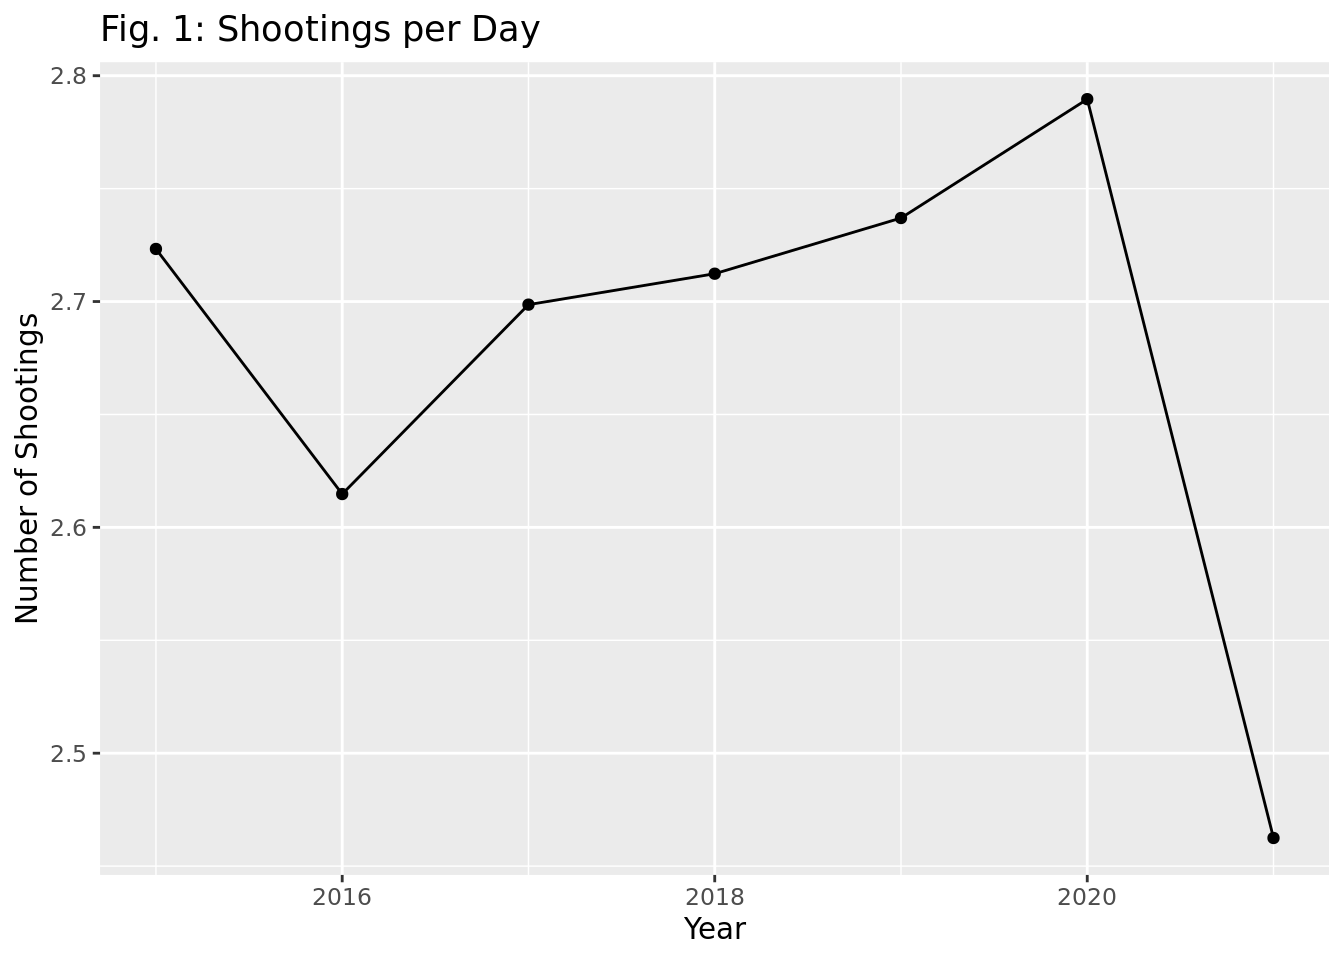
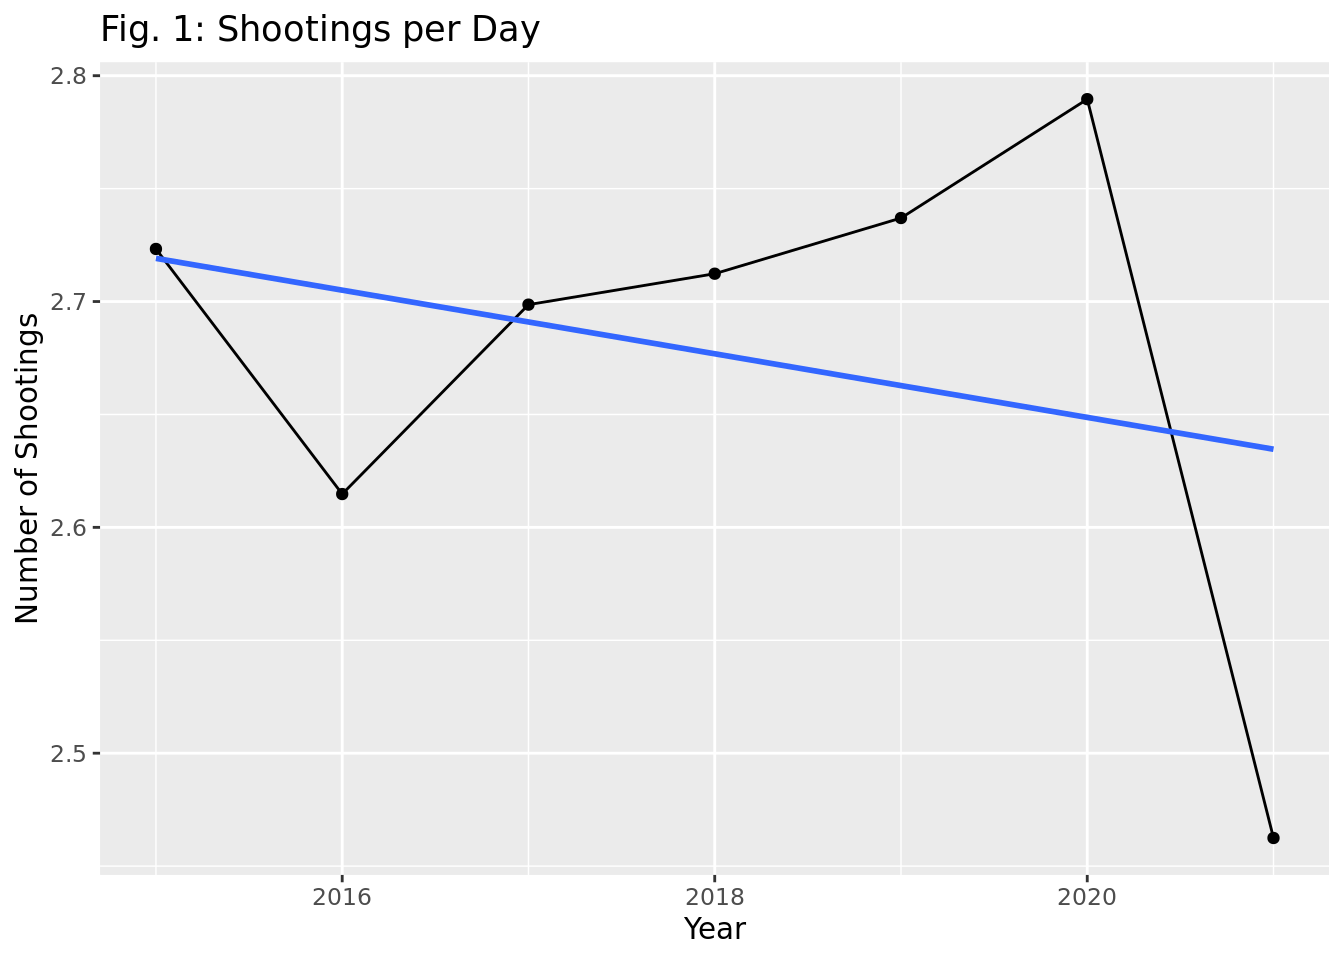
Added trendline to Fig.1

diff --git a/docs/report.html b/docs/report.html
@@ -298,80 +298,84 @@ $ `Shooting.Body-Camera`   &lt;lgl&gt; TRUE, TRUE, TRUE, TRUE, TRUE, TRUE, TRUE,
 <span id="cb12-12"><a href="#cb12-12" aria-hidden="true" tabindex="-1"></a>  <span class="fu">labs</span>(</span>
 <span id="cb12-13"><a href="#cb12-13" aria-hidden="true" tabindex="-1"></a>    <span class="at">title =</span> <span class="st">"Fig. 1: Shootings per Day"</span>,</span>
 <span id="cb12-14"><a href="#cb12-14" aria-hidden="true" tabindex="-1"></a>    <span class="at">x =</span> <span class="st">"Year"</span>, </span>
-<span id="cb12-15"><a href="#cb12-15" aria-hidden="true" tabindex="-1"></a>    <span class="at">y =</span> <span class="st">"Number of Shootings"</span>)</span></code><button title="Copy to Clipboard" class="code-copy-button"><i class="bi"></i></button></pre></div>
+<span id="cb12-15"><a href="#cb12-15" aria-hidden="true" tabindex="-1"></a>    <span class="at">y =</span> <span class="st">"Number of Shootings"</span>) <span class="sc">+</span></span>
+<span id="cb12-16"><a href="#cb12-16" aria-hidden="true" tabindex="-1"></a>  <span class="fu">geom_smooth</span>(<span class="at">method =</span> <span class="st">"lm"</span>, <span class="at">se =</span> F)</span></code><button title="Copy to Clipboard" class="code-copy-button"><i class="bi"></i></button></pre></div>
+<div class="cell-output cell-output-stderr">
+<pre><code>`geom_smooth()` using formula = 'y ~ x'</code></pre>
+</div>
 <div class="cell-output-display">
 <p><img src="report_files/figure-html/yearly-analysis-1.png" class="img-fluid" width="672"></p>
 </div>
 </div>
 <p>As seen by the graph below, ~10% of male victims and 13% of female victims were unarmed.</p>
 <div class="cell">
-<div class="sourceCode cell-code" id="cb13"><pre class="sourceCode r code-with-copy"><code class="sourceCode r"><span id="cb13-1"><a href="#cb13-1" aria-hidden="true" tabindex="-1"></a>police_shootings <span class="sc">|&gt;</span></span>
-<span id="cb13-2"><a href="#cb13-2" aria-hidden="true" tabindex="-1"></a>  <span class="fu">filter</span>(Factors.Armed <span class="sc">!=</span> <span class="st">"unknown"</span>) <span class="sc">|&gt;</span></span>
-<span id="cb13-3"><a href="#cb13-3" aria-hidden="true" tabindex="-1"></a>  <span class="fu">mutate</span>(<span class="at">Factors.Armed.Test =</span> <span class="fu">if_else</span>(Factors.Armed <span class="sc">==</span> <span class="st">"unarmed"</span> <span class="sc">|</span> Factors.Armed <span class="sc">==</span> <span class="st">"toy weapon"</span>, <span class="st">"unarmed"</span>, <span class="st">"armed with weapon"</span>)) <span class="sc">|&gt;</span></span>
-<span id="cb13-4"><a href="#cb13-4" aria-hidden="true" tabindex="-1"></a>  <span class="fu">ggplot</span>(<span class="fu">aes</span>(<span class="at">x =</span> Person.Gender, <span class="at">fill =</span> Factors.Armed.Test)) <span class="sc">+</span></span>
-<span id="cb13-5"><a href="#cb13-5" aria-hidden="true" tabindex="-1"></a>  <span class="fu">geom_bar</span>(<span class="at">position =</span> <span class="st">"fill"</span>) <span class="sc">+</span></span>
-<span id="cb13-6"><a href="#cb13-6" aria-hidden="true" tabindex="-1"></a>  <span class="fu">labs</span>(</span>
-<span id="cb13-7"><a href="#cb13-7" aria-hidden="true" tabindex="-1"></a>    <span class="at">title =</span> <span class="st">"Fig. 2: Arms Status of Victims by Gender"</span>,</span>
-<span id="cb13-8"><a href="#cb13-8" aria-hidden="true" tabindex="-1"></a>    <span class="at">y =</span> <span class="st">"% of Victims"</span>,</span>
-<span id="cb13-9"><a href="#cb13-9" aria-hidden="true" tabindex="-1"></a>    <span class="at">x =</span> <span class="st">"Sex"</span>,</span>
-<span id="cb13-10"><a href="#cb13-10" aria-hidden="true" tabindex="-1"></a>    <span class="at">fill =</span> <span class="st">"Arms Status"</span>)</span></code><button title="Copy to Clipboard" class="code-copy-button"><i class="bi"></i></button></pre></div>
+<div class="sourceCode cell-code" id="cb14"><pre class="sourceCode r code-with-copy"><code class="sourceCode r"><span id="cb14-1"><a href="#cb14-1" aria-hidden="true" tabindex="-1"></a>police_shootings <span class="sc">|&gt;</span></span>
+<span id="cb14-2"><a href="#cb14-2" aria-hidden="true" tabindex="-1"></a>  <span class="fu">filter</span>(Factors.Armed <span class="sc">!=</span> <span class="st">"unknown"</span>) <span class="sc">|&gt;</span></span>
+<span id="cb14-3"><a href="#cb14-3" aria-hidden="true" tabindex="-1"></a>  <span class="fu">mutate</span>(<span class="at">Factors.Armed.Test =</span> <span class="fu">if_else</span>(Factors.Armed <span class="sc">==</span> <span class="st">"unarmed"</span> <span class="sc">|</span> Factors.Armed <span class="sc">==</span> <span class="st">"toy weapon"</span>, <span class="st">"unarmed"</span>, <span class="st">"armed with weapon"</span>)) <span class="sc">|&gt;</span></span>
+<span id="cb14-4"><a href="#cb14-4" aria-hidden="true" tabindex="-1"></a>  <span class="fu">ggplot</span>(<span class="fu">aes</span>(<span class="at">x =</span> Person.Gender, <span class="at">fill =</span> Factors.Armed.Test)) <span class="sc">+</span></span>
+<span id="cb14-5"><a href="#cb14-5" aria-hidden="true" tabindex="-1"></a>  <span class="fu">geom_bar</span>(<span class="at">position =</span> <span class="st">"fill"</span>) <span class="sc">+</span></span>
+<span id="cb14-6"><a href="#cb14-6" aria-hidden="true" tabindex="-1"></a>  <span class="fu">labs</span>(</span>
+<span id="cb14-7"><a href="#cb14-7" aria-hidden="true" tabindex="-1"></a>    <span class="at">title =</span> <span class="st">"Fig. 2: Arms Status of Victims by Gender"</span>,</span>
+<span id="cb14-8"><a href="#cb14-8" aria-hidden="true" tabindex="-1"></a>    <span class="at">y =</span> <span class="st">"% of Victims"</span>,</span>
+<span id="cb14-9"><a href="#cb14-9" aria-hidden="true" tabindex="-1"></a>    <span class="at">x =</span> <span class="st">"Sex"</span>,</span>
+<span id="cb14-10"><a href="#cb14-10" aria-hidden="true" tabindex="-1"></a>    <span class="at">fill =</span> <span class="st">"Arms Status"</span>)</span></code><button title="Copy to Clipboard" class="code-copy-button"><i class="bi"></i></button></pre></div>
 <div class="cell-output-display">
 <p><img src="report_files/figure-html/arms-status-1.png" class="img-fluid" width="672"></p>
 </div>
 </div>
 <p>We used box plots to visualize male versus female and race as it is the best way to show distributions of numeric data values between multiple groups. It made the differences in age between male and female victims and victims of different races very clear. We could compare the median, range, and outliers.</p>
 <div class="cell">
-<div class="sourceCode cell-code" id="cb14"><pre class="sourceCode r code-with-copy"><code class="sourceCode r"><span id="cb14-1"><a href="#cb14-1" aria-hidden="true" tabindex="-1"></a>police_shootings <span class="sc">|&gt;</span> </span>
-<span id="cb14-2"><a href="#cb14-2" aria-hidden="true" tabindex="-1"></a>  <span class="fu">ggplot</span>(</span>
-<span id="cb14-3"><a href="#cb14-3" aria-hidden="true" tabindex="-1"></a>    <span class="fu">aes</span>(<span class="at">x =</span> Person.Age, <span class="at">color =</span> Person.Race)) <span class="sc">+</span> </span>
-<span id="cb14-4"><a href="#cb14-4" aria-hidden="true" tabindex="-1"></a>    <span class="fu">geom_boxplot</span>() <span class="sc">+</span> </span>
-<span id="cb14-5"><a href="#cb14-5" aria-hidden="true" tabindex="-1"></a>    <span class="fu">labs</span>(<span class="at">title =</span> <span class="st">"Fig. 3: Relationship between Race and Age"</span>,</span>
-<span id="cb14-6"><a href="#cb14-6" aria-hidden="true" tabindex="-1"></a>         <span class="at">x =</span> <span class="st">"Age"</span>,</span>
-<span id="cb14-7"><a href="#cb14-7" aria-hidden="true" tabindex="-1"></a>         <span class="at">y =</span> <span class="st">"Race"</span>,</span>
-<span id="cb14-8"><a href="#cb14-8" aria-hidden="true" tabindex="-1"></a>         <span class="at">color =</span> <span class="st">"Race"</span>)</span></code><button title="Copy to Clipboard" class="code-copy-button"><i class="bi"></i></button></pre></div>
+<div class="sourceCode cell-code" id="cb15"><pre class="sourceCode r code-with-copy"><code class="sourceCode r"><span id="cb15-1"><a href="#cb15-1" aria-hidden="true" tabindex="-1"></a>police_shootings <span class="sc">|&gt;</span> </span>
+<span id="cb15-2"><a href="#cb15-2" aria-hidden="true" tabindex="-1"></a>  <span class="fu">ggplot</span>(</span>
+<span id="cb15-3"><a href="#cb15-3" aria-hidden="true" tabindex="-1"></a>    <span class="fu">aes</span>(<span class="at">x =</span> Person.Age, <span class="at">color =</span> Person.Race)) <span class="sc">+</span> </span>
+<span id="cb15-4"><a href="#cb15-4" aria-hidden="true" tabindex="-1"></a>    <span class="fu">geom_boxplot</span>() <span class="sc">+</span> </span>
+<span id="cb15-5"><a href="#cb15-5" aria-hidden="true" tabindex="-1"></a>    <span class="fu">labs</span>(<span class="at">title =</span> <span class="st">"Fig. 3: Relationship between Race and Age"</span>,</span>
+<span id="cb15-6"><a href="#cb15-6" aria-hidden="true" tabindex="-1"></a>         <span class="at">x =</span> <span class="st">"Age"</span>,</span>
+<span id="cb15-7"><a href="#cb15-7" aria-hidden="true" tabindex="-1"></a>         <span class="at">y =</span> <span class="st">"Race"</span>,</span>
+<span id="cb15-8"><a href="#cb15-8" aria-hidden="true" tabindex="-1"></a>         <span class="at">color =</span> <span class="st">"Race"</span>)</span></code><button title="Copy to Clipboard" class="code-copy-button"><i class="bi"></i></button></pre></div>
 <div class="cell-output-display">
 <p><img src="report_files/figure-html/box-plots-race-1.png" class="img-fluid" width="672"></p>
 </div>
 </div>
 <div class="cell">
-<div class="sourceCode cell-code" id="cb15"><pre class="sourceCode r code-with-copy"><code class="sourceCode r"><span id="cb15-1"><a href="#cb15-1" aria-hidden="true" tabindex="-1"></a>police_shootings <span class="sc">|&gt;</span> </span>
-<span id="cb15-2"><a href="#cb15-2" aria-hidden="true" tabindex="-1"></a>  <span class="fu">ggplot</span>(</span>
-<span id="cb15-3"><a href="#cb15-3" aria-hidden="true" tabindex="-1"></a>    <span class="fu">aes</span>(<span class="at">x =</span> Person.Age, <span class="at">color =</span> Person.Gender)) <span class="sc">+</span> </span>
-<span id="cb15-4"><a href="#cb15-4" aria-hidden="true" tabindex="-1"></a>    <span class="fu">geom_boxplot</span>() <span class="sc">+</span> </span>
-<span id="cb15-5"><a href="#cb15-5" aria-hidden="true" tabindex="-1"></a>    <span class="fu">labs</span>(<span class="at">title =</span> <span class="st">"Fig. 4: Relationship between Sex and Age"</span>,</span>
-<span id="cb15-6"><a href="#cb15-6" aria-hidden="true" tabindex="-1"></a>         <span class="at">x =</span> <span class="st">"Age"</span>,</span>
-<span id="cb15-7"><a href="#cb15-7" aria-hidden="true" tabindex="-1"></a>         <span class="at">y =</span> <span class="st">"Sex"</span>,</span>
-<span id="cb15-8"><a href="#cb15-8" aria-hidden="true" tabindex="-1"></a>         <span class="at">color =</span> <span class="st">"Sex"</span>)</span></code><button title="Copy to Clipboard" class="code-copy-button"><i class="bi"></i></button></pre></div>
+<div class="sourceCode cell-code" id="cb16"><pre class="sourceCode r code-with-copy"><code class="sourceCode r"><span id="cb16-1"><a href="#cb16-1" aria-hidden="true" tabindex="-1"></a>police_shootings <span class="sc">|&gt;</span> </span>
+<span id="cb16-2"><a href="#cb16-2" aria-hidden="true" tabindex="-1"></a>  <span class="fu">ggplot</span>(</span>
+<span id="cb16-3"><a href="#cb16-3" aria-hidden="true" tabindex="-1"></a>    <span class="fu">aes</span>(<span class="at">x =</span> Person.Age, <span class="at">color =</span> Person.Gender)) <span class="sc">+</span> </span>
+<span id="cb16-4"><a href="#cb16-4" aria-hidden="true" tabindex="-1"></a>    <span class="fu">geom_boxplot</span>() <span class="sc">+</span> </span>
+<span id="cb16-5"><a href="#cb16-5" aria-hidden="true" tabindex="-1"></a>    <span class="fu">labs</span>(<span class="at">title =</span> <span class="st">"Fig. 4: Relationship between Sex and Age"</span>,</span>
+<span id="cb16-6"><a href="#cb16-6" aria-hidden="true" tabindex="-1"></a>         <span class="at">x =</span> <span class="st">"Age"</span>,</span>
+<span id="cb16-7"><a href="#cb16-7" aria-hidden="true" tabindex="-1"></a>         <span class="at">y =</span> <span class="st">"Sex"</span>,</span>
+<span id="cb16-8"><a href="#cb16-8" aria-hidden="true" tabindex="-1"></a>         <span class="at">color =</span> <span class="st">"Sex"</span>)</span></code><button title="Copy to Clipboard" class="code-copy-button"><i class="bi"></i></button></pre></div>
 <div class="cell-output-display">
 <p><img src="report_files/figure-html/box-plot-gender-1.png" class="img-fluid" width="672"></p>
 </div>
 </div>
 <div class="cell">
-<div class="sourceCode cell-code" id="cb16"><pre class="sourceCode r code-with-copy"><code class="sourceCode r"><span id="cb16-1"><a href="#cb16-1" aria-hidden="true" tabindex="-1"></a>police_shootings <span class="sc">|&gt;</span> </span>
-<span id="cb16-2"><a href="#cb16-2" aria-hidden="true" tabindex="-1"></a>  <span class="fu">ggplot</span>(<span class="fu">aes</span>(<span class="at">x =</span> Person.Race, <span class="at">fill =</span> Person.Race)) <span class="sc">+</span> </span>
-<span id="cb16-3"><a href="#cb16-3" aria-hidden="true" tabindex="-1"></a>    <span class="fu">geom_bar</span>() <span class="sc">+</span> </span>
-<span id="cb16-4"><a href="#cb16-4" aria-hidden="true" tabindex="-1"></a>    <span class="fu">labs</span>(<span class="at">title =</span> <span class="st">"Fig. 5: Number of Victims by Race"</span>,</span>
-<span id="cb16-5"><a href="#cb16-5" aria-hidden="true" tabindex="-1"></a>         <span class="at">x =</span> <span class="st">"Race"</span>,</span>
-<span id="cb16-6"><a href="#cb16-6" aria-hidden="true" tabindex="-1"></a>         <span class="at">y =</span> <span class="st">"Count"</span>,</span>
-<span id="cb16-7"><a href="#cb16-7" aria-hidden="true" tabindex="-1"></a>         <span class="at">fill =</span> <span class="st">"Race"</span>) <span class="sc">+</span></span>
-<span id="cb16-8"><a href="#cb16-8" aria-hidden="true" tabindex="-1"></a>  <span class="fu">theme</span>(<span class="at">axis.text.x =</span> <span class="fu">element_text</span>(<span class="at">angle =</span> <span class="dv">90</span>, <span class="at">vjust =</span> <span class="fl">0.5</span>, <span class="at">hjust=</span><span class="dv">1</span>), </span>
-<span id="cb16-9"><a href="#cb16-9" aria-hidden="true" tabindex="-1"></a>        <span class="at">legend.position =</span> <span class="st">"none"</span>)</span></code><button title="Copy to Clipboard" class="code-copy-button"><i class="bi"></i></button></pre></div>
+<div class="sourceCode cell-code" id="cb17"><pre class="sourceCode r code-with-copy"><code class="sourceCode r"><span id="cb17-1"><a href="#cb17-1" aria-hidden="true" tabindex="-1"></a>police_shootings <span class="sc">|&gt;</span> </span>
+<span id="cb17-2"><a href="#cb17-2" aria-hidden="true" tabindex="-1"></a>  <span class="fu">ggplot</span>(<span class="fu">aes</span>(<span class="at">x =</span> Person.Race, <span class="at">fill =</span> Person.Race)) <span class="sc">+</span> </span>
+<span id="cb17-3"><a href="#cb17-3" aria-hidden="true" tabindex="-1"></a>    <span class="fu">geom_bar</span>() <span class="sc">+</span> </span>
+<span id="cb17-4"><a href="#cb17-4" aria-hidden="true" tabindex="-1"></a>    <span class="fu">labs</span>(<span class="at">title =</span> <span class="st">"Fig. 5: Number of Victims by Race"</span>,</span>
+<span id="cb17-5"><a href="#cb17-5" aria-hidden="true" tabindex="-1"></a>         <span class="at">x =</span> <span class="st">"Race"</span>,</span>
+<span id="cb17-6"><a href="#cb17-6" aria-hidden="true" tabindex="-1"></a>         <span class="at">y =</span> <span class="st">"Count"</span>,</span>
+<span id="cb17-7"><a href="#cb17-7" aria-hidden="true" tabindex="-1"></a>         <span class="at">fill =</span> <span class="st">"Race"</span>) <span class="sc">+</span></span>
+<span id="cb17-8"><a href="#cb17-8" aria-hidden="true" tabindex="-1"></a>  <span class="fu">theme</span>(<span class="at">axis.text.x =</span> <span class="fu">element_text</span>(<span class="at">angle =</span> <span class="dv">90</span>, <span class="at">vjust =</span> <span class="fl">0.5</span>, <span class="at">hjust=</span><span class="dv">1</span>), </span>
+<span id="cb17-9"><a href="#cb17-9" aria-hidden="true" tabindex="-1"></a>        <span class="at">legend.position =</span> <span class="st">"none"</span>)</span></code><button title="Copy to Clipboard" class="code-copy-button"><i class="bi"></i></button></pre></div>
 <div class="cell-output-display">
 <p><img src="report_files/figure-html/bar-graph-race-1.png" class="img-fluid" width="672"></p>
 </div>
 </div>
 <div class="cell">
-<div class="sourceCode cell-code" id="cb17"><pre class="sourceCode r code-with-copy"><code class="sourceCode r"><span id="cb17-1"><a href="#cb17-1" aria-hidden="true" tabindex="-1"></a>police_shootings <span class="sc">|&gt;</span></span>
-<span id="cb17-2"><a href="#cb17-2" aria-hidden="true" tabindex="-1"></a>  <span class="fu">filter</span>(Factors.Armed <span class="sc">!=</span> <span class="st">"unknown"</span>) <span class="sc">|&gt;</span></span>
-<span id="cb17-3"><a href="#cb17-3" aria-hidden="true" tabindex="-1"></a>  <span class="fu">mutate</span>(<span class="at">Factors.Armed.Test =</span> <span class="fu">if_else</span>(Factors.Armed <span class="sc">==</span> <span class="st">"unarmed"</span> <span class="sc">|</span> Factors.Armed <span class="sc">==</span> <span class="st">"toy weapon"</span>, <span class="st">"unarmed"</span>, <span class="st">"armed with weapon"</span>)) <span class="sc">|&gt;</span></span>
-<span id="cb17-4"><a href="#cb17-4" aria-hidden="true" tabindex="-1"></a>  <span class="fu">ggplot</span>(<span class="fu">aes</span>(<span class="at">x =</span> Person.Race, <span class="at">fill =</span> Factors.Armed.Test)) <span class="sc">+</span></span>
-<span id="cb17-5"><a href="#cb17-5" aria-hidden="true" tabindex="-1"></a>  <span class="fu">geom_bar</span>(<span class="at">position =</span> <span class="st">"fill"</span>) <span class="sc">+</span></span>
-<span id="cb17-6"><a href="#cb17-6" aria-hidden="true" tabindex="-1"></a>  <span class="fu">labs</span>(</span>
-<span id="cb17-7"><a href="#cb17-7" aria-hidden="true" tabindex="-1"></a>    <span class="at">title =</span> <span class="st">"Fig. 6: Arms Status of Victims by Race"</span>,</span>
-<span id="cb17-8"><a href="#cb17-8" aria-hidden="true" tabindex="-1"></a>    <span class="at">y =</span> <span class="st">"Proportion of Victims"</span>,</span>
-<span id="cb17-9"><a href="#cb17-9" aria-hidden="true" tabindex="-1"></a>    <span class="at">x =</span> <span class="st">"Race"</span>,</span>
-<span id="cb17-10"><a href="#cb17-10" aria-hidden="true" tabindex="-1"></a>    <span class="at">fill =</span> <span class="st">"Arms Status"</span>) <span class="sc">+</span></span>
-<span id="cb17-11"><a href="#cb17-11" aria-hidden="true" tabindex="-1"></a>    <span class="fu">theme</span>(<span class="at">axis.text.x =</span> <span class="fu">element_text</span>(<span class="at">angle =</span> <span class="dv">90</span>, <span class="at">vjust =</span> <span class="fl">0.5</span>, <span class="at">hjust =</span> <span class="dv">1</span>))</span></code><button title="Copy to Clipboard" class="code-copy-button"><i class="bi"></i></button></pre></div>
+<div class="sourceCode cell-code" id="cb18"><pre class="sourceCode r code-with-copy"><code class="sourceCode r"><span id="cb18-1"><a href="#cb18-1" aria-hidden="true" tabindex="-1"></a>police_shootings <span class="sc">|&gt;</span></span>
+<span id="cb18-2"><a href="#cb18-2" aria-hidden="true" tabindex="-1"></a>  <span class="fu">filter</span>(Factors.Armed <span class="sc">!=</span> <span class="st">"unknown"</span>) <span class="sc">|&gt;</span></span>
+<span id="cb18-3"><a href="#cb18-3" aria-hidden="true" tabindex="-1"></a>  <span class="fu">mutate</span>(<span class="at">Factors.Armed.Test =</span> <span class="fu">if_else</span>(Factors.Armed <span class="sc">==</span> <span class="st">"unarmed"</span> <span class="sc">|</span> Factors.Armed <span class="sc">==</span> <span class="st">"toy weapon"</span>, <span class="st">"unarmed"</span>, <span class="st">"armed with weapon"</span>)) <span class="sc">|&gt;</span></span>
+<span id="cb18-4"><a href="#cb18-4" aria-hidden="true" tabindex="-1"></a>  <span class="fu">ggplot</span>(<span class="fu">aes</span>(<span class="at">x =</span> Person.Race, <span class="at">fill =</span> Factors.Armed.Test)) <span class="sc">+</span></span>
+<span id="cb18-5"><a href="#cb18-5" aria-hidden="true" tabindex="-1"></a>  <span class="fu">geom_bar</span>(<span class="at">position =</span> <span class="st">"fill"</span>) <span class="sc">+</span></span>
+<span id="cb18-6"><a href="#cb18-6" aria-hidden="true" tabindex="-1"></a>  <span class="fu">labs</span>(</span>
+<span id="cb18-7"><a href="#cb18-7" aria-hidden="true" tabindex="-1"></a>    <span class="at">title =</span> <span class="st">"Fig. 6: Arms Status of Victims by Race"</span>,</span>
+<span id="cb18-8"><a href="#cb18-8" aria-hidden="true" tabindex="-1"></a>    <span class="at">y =</span> <span class="st">"Proportion of Victims"</span>,</span>
+<span id="cb18-9"><a href="#cb18-9" aria-hidden="true" tabindex="-1"></a>    <span class="at">x =</span> <span class="st">"Race"</span>,</span>
+<span id="cb18-10"><a href="#cb18-10" aria-hidden="true" tabindex="-1"></a>    <span class="at">fill =</span> <span class="st">"Arms Status"</span>) <span class="sc">+</span></span>
+<span id="cb18-11"><a href="#cb18-11" aria-hidden="true" tabindex="-1"></a>    <span class="fu">theme</span>(<span class="at">axis.text.x =</span> <span class="fu">element_text</span>(<span class="at">angle =</span> <span class="dv">90</span>, <span class="at">vjust =</span> <span class="fl">0.5</span>, <span class="at">hjust =</span> <span class="dv">1</span>))</span></code><button title="Copy to Clipboard" class="code-copy-button"><i class="bi"></i></button></pre></div>
 <div class="cell-output-display">
 <p><img src="report_files/figure-html/bar-graph-arms-status-race-1.png" class="img-fluid" width="672"></p>
 </div>
